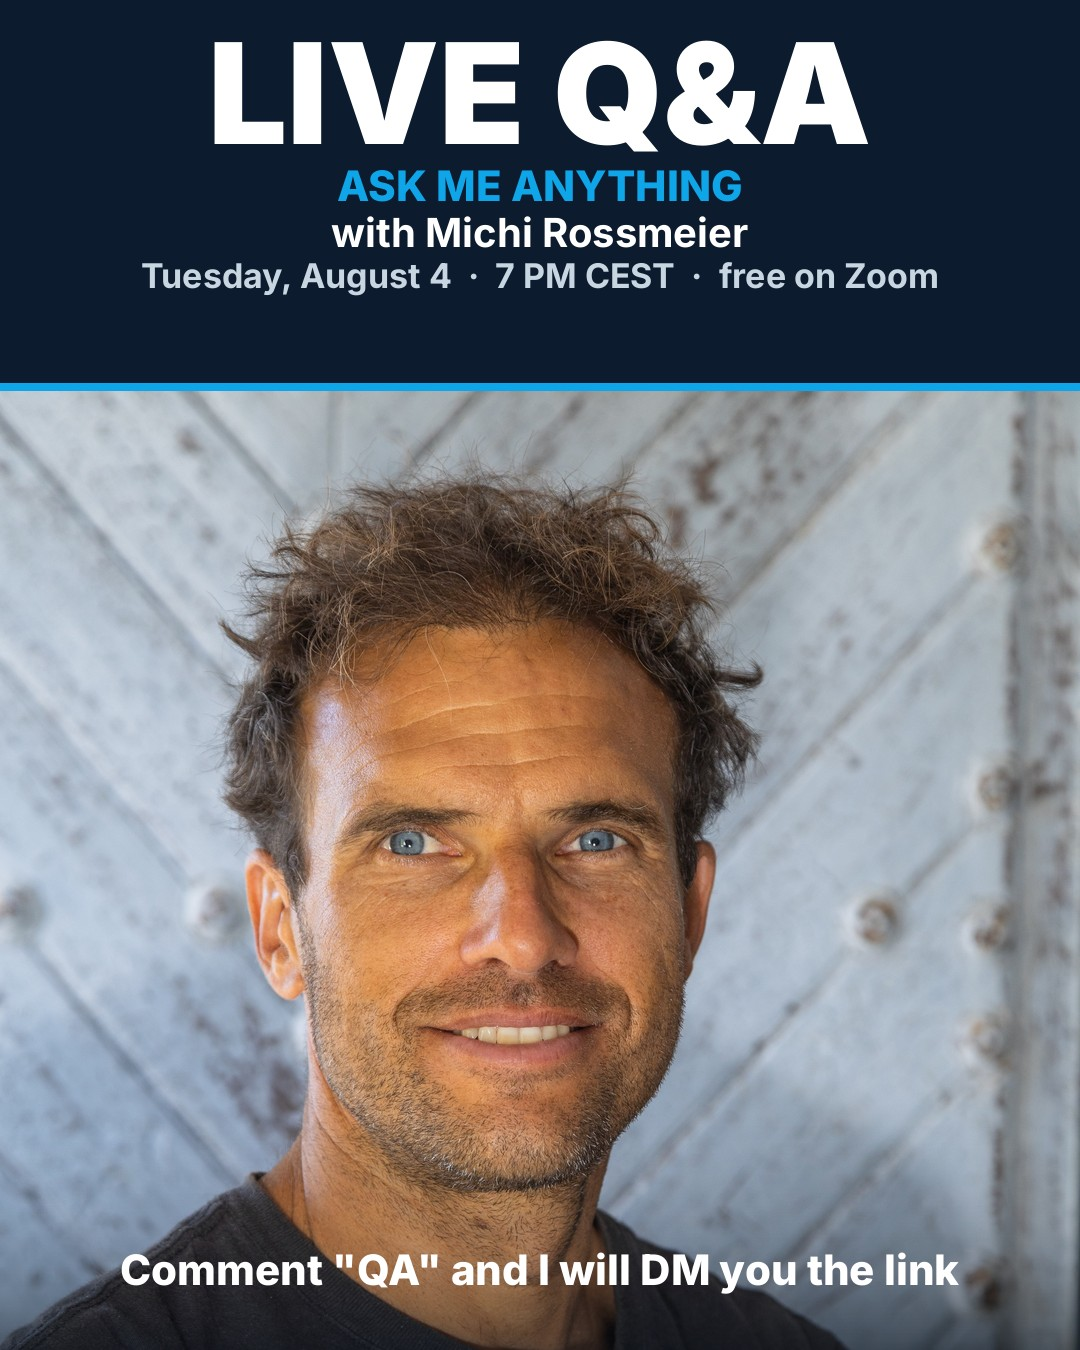
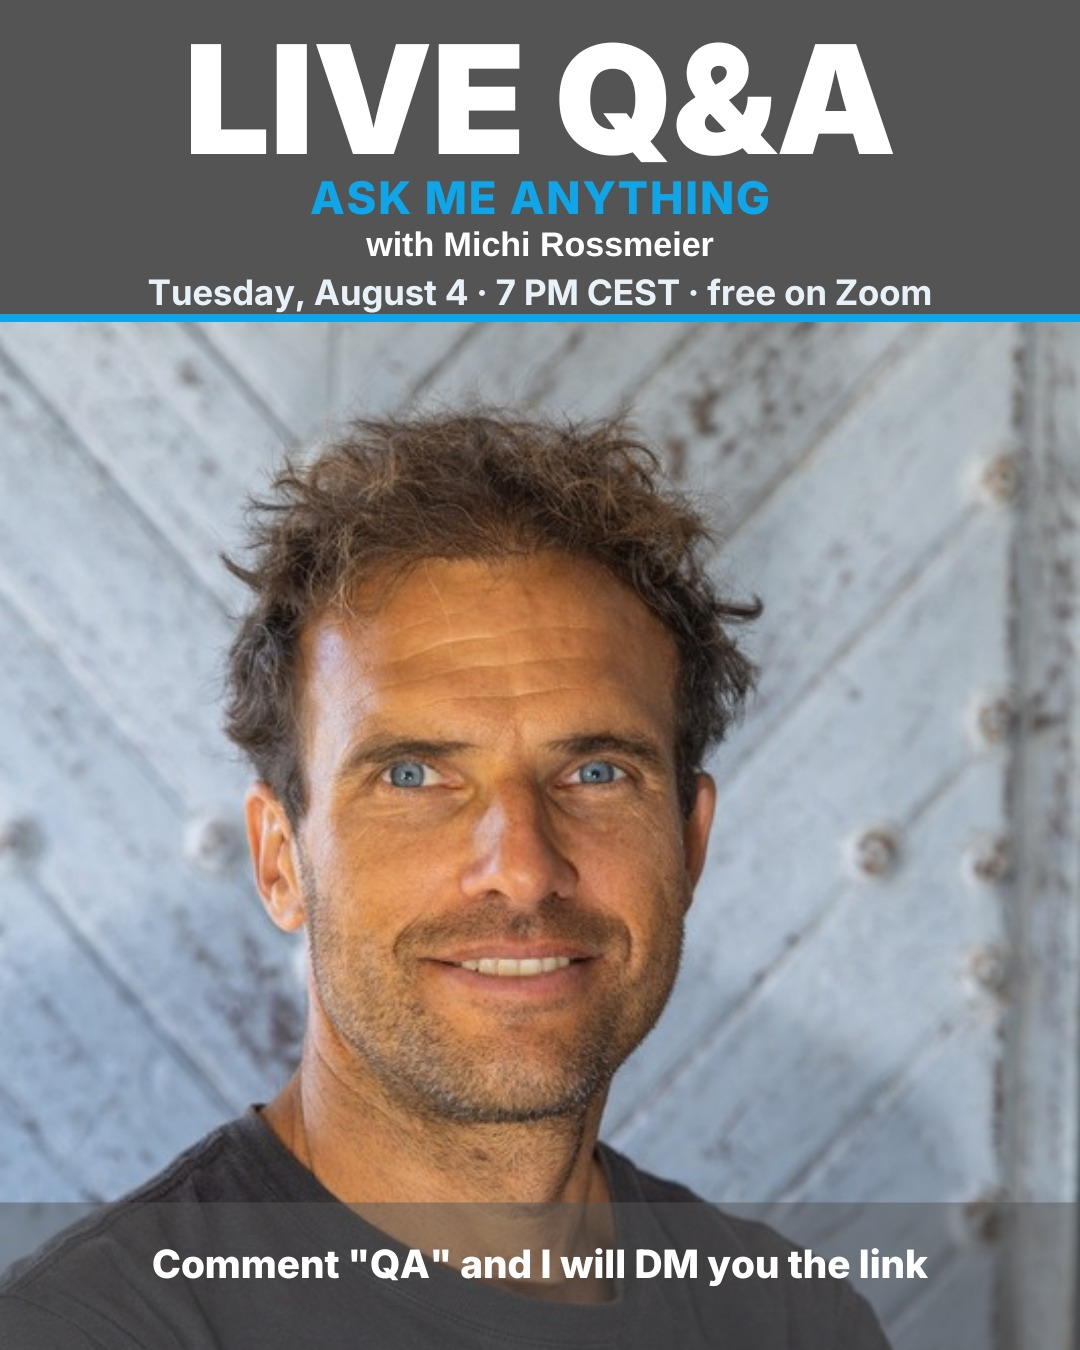
feat(qa): swap in Michi's Canva-edited campaign images, editable newsletter hero design

diff --git a/website/static/campaign-aug4/index.html b/website/static/campaign-aug4/index.html
@@ -61,10 +61,10 @@
 
   <h2>Images - tap to download</h2>
   <div class="assets">
-    <div class="asset"><img src="ig-feed-A-portrait.jpg?v=mr1" alt="Feed image A - portrait"><div class="n">Feed A - Portrait</div><a href="ig-feed-A-portrait.jpg?v=mr1" download>Download</a></div>
-    <div class="asset"><img src="ig-feed-B-action.jpg?v=mr1" alt="Feed image B - action"><div class="n">Feed B - Action</div><a href="ig-feed-B-action.jpg?v=mr1" download>Download</a></div>
-    <div class="asset"><img src="ig-story-portrait.jpg?v=mr1" alt="Story image"><div class="n">Story (9:16)</div><a href="ig-story-portrait.jpg?v=mr1" download>Download</a></div>
-    <div class="asset"><img src="qa-aug4-books.jpg?v=mr1" alt="Books mockup"><div class="n">Books mockup (email)</div><a href="qa-aug4-books.jpg?v=mr1" download>Download</a></div>
+    <div class="asset"><img src="ig-feed-A-portrait.jpg?v=mr2" alt="Feed image A - portrait"><div class="n">Feed A - Portrait</div><a href="ig-feed-A-portrait.jpg?v=mr2" download>Download</a></div>
+    <div class="asset"><img src="ig-feed-B-action.jpg?v=mr2" alt="Feed image B - action"><div class="n">Feed B - Action</div><a href="ig-feed-B-action.jpg?v=mr2" download>Download</a></div>
+    <div class="asset"><img src="ig-story-portrait.jpg?v=mr2" alt="Story image"><div class="n">Story (9:16)</div><a href="ig-story-portrait.jpg?v=mr2" download>Download</a></div>
+    <div class="asset"><img src="qa-aug4-books.jpg?v=mr2" alt="Books mockup"><div class="n">Books mockup (email)</div><a href="qa-aug4-books.jpg?v=mr2" download>Download</a></div>
   </div>
 
   <h2>Instagram caption</h2>

diff --git a/docs/qa-campaign-assets/canva-hero.html b/docs/qa-campaign-assets/canva-hero.html
@@ -1,0 +1,9 @@
+<!DOCTYPE html><html><head><meta charset="utf-8"></head><body style="margin:0">
+<div data-document-role="page" data-label="Newsletter hero" style="width:1200px;height:1240px;position:relative;overflow:hidden;background:#0d1b2e;">
+  <img src="https://coaching.tricktionary.com/video-coaching/static/campaign-aug4/canva-hero-bg.jpg" style="position:absolute;left:0;top:380px;width:1200px;height:860px;">
+  <div style="position:absolute;left:0;top:373px;width:1200px;height:7px;background:#0ea5e9;"></div>
+  <div style="position:absolute;left:0;top:36px;width:1200px;text-align:center;font-family:Inter,Arial,sans-serif;font-weight:900;font-size:150px;color:#ffffff;">LIVE Q&amp;A</div>
+  <div style="position:absolute;left:0;top:200px;width:1200px;text-align:center;font-family:Inter,Arial,sans-serif;font-weight:800;font-size:46px;letter-spacing:2px;color:#0ea5e9;">ASK ME ANYTHING</div>
+  <div style="position:absolute;left:0;top:258px;width:1200px;text-align:center;font-family:Inter,Arial,sans-serif;font-weight:700;font-size:38px;color:#ffffff;">with Michi Rossmeier</div>
+  <div style="position:absolute;left:0;top:312px;width:1200px;text-align:center;font-family:Inter,Arial,sans-serif;font-weight:700;font-size:34px;color:#c8d6e2;">Tuesday, August 4 &middot; 7 PM CEST &middot; free on Zoom</div>
+</div></body></html>

diff --git a/website/static/campaign-aug4/canva-hero.html b/website/static/campaign-aug4/canva-hero.html
@@ -1,0 +1,9 @@
+<!DOCTYPE html><html><head><meta charset="utf-8"></head><body style="margin:0">
+<div data-document-role="page" data-label="Newsletter hero" style="width:1200px;height:1240px;position:relative;overflow:hidden;background:#0d1b2e;">
+  <img src="https://coaching.tricktionary.com/video-coaching/static/campaign-aug4/canva-hero-bg.jpg" style="position:absolute;left:0;top:380px;width:1200px;height:860px;">
+  <div style="position:absolute;left:0;top:373px;width:1200px;height:7px;background:#0ea5e9;"></div>
+  <div style="position:absolute;left:0;top:36px;width:1200px;text-align:center;font-family:Inter,Arial,sans-serif;font-weight:900;font-size:150px;color:#ffffff;">LIVE Q&amp;A</div>
+  <div style="position:absolute;left:0;top:200px;width:1200px;text-align:center;font-family:Inter,Arial,sans-serif;font-weight:800;font-size:46px;letter-spacing:2px;color:#0ea5e9;">ASK ME ANYTHING</div>
+  <div style="position:absolute;left:0;top:258px;width:1200px;text-align:center;font-family:Inter,Arial,sans-serif;font-weight:700;font-size:38px;color:#ffffff;">with Michi Rossmeier</div>
+  <div style="position:absolute;left:0;top:312px;width:1200px;text-align:center;font-family:Inter,Arial,sans-serif;font-weight:700;font-size:34px;color:#c8d6e2;">Tuesday, August 4 &middot; 7 PM CEST &middot; free on Zoom</div>
+</div></body></html>
